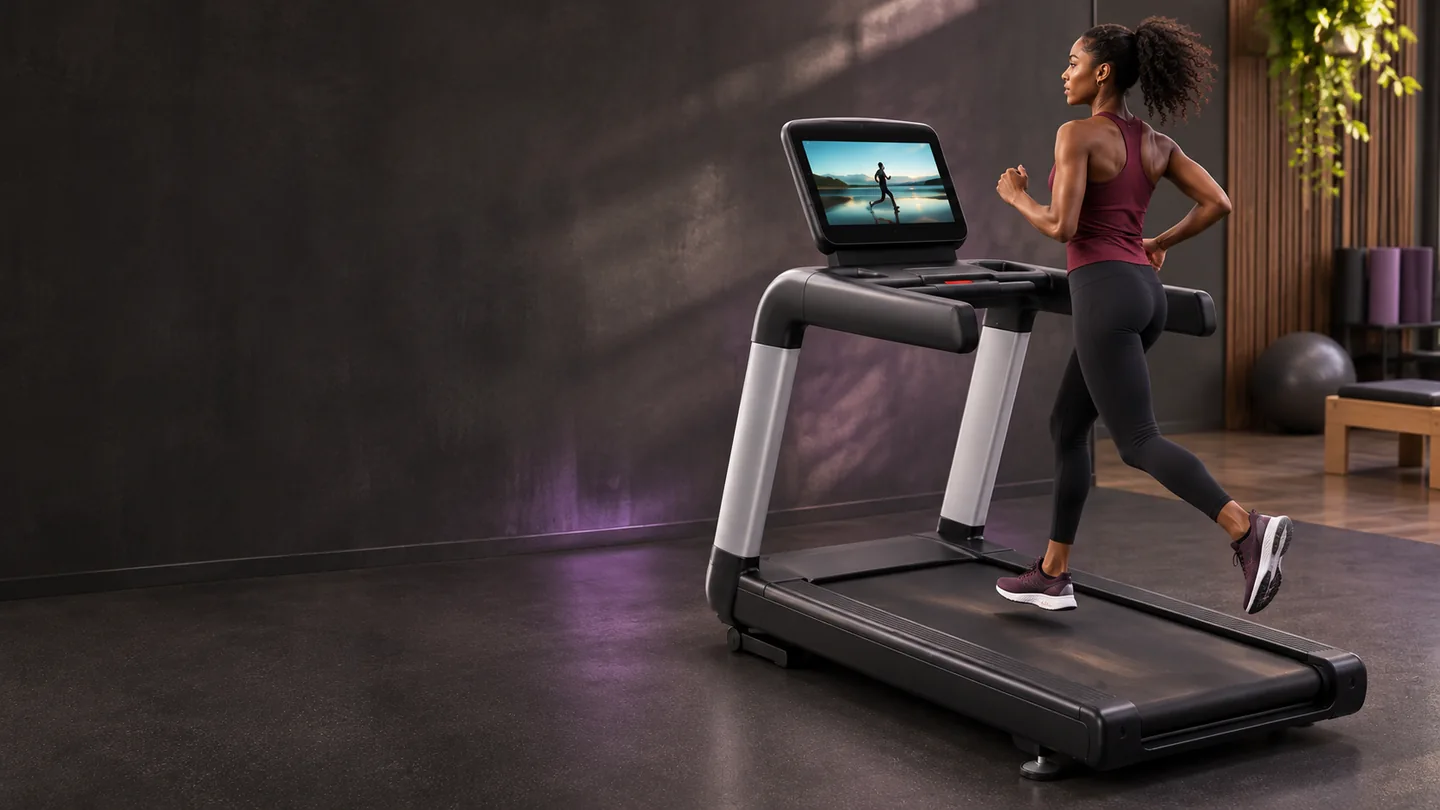
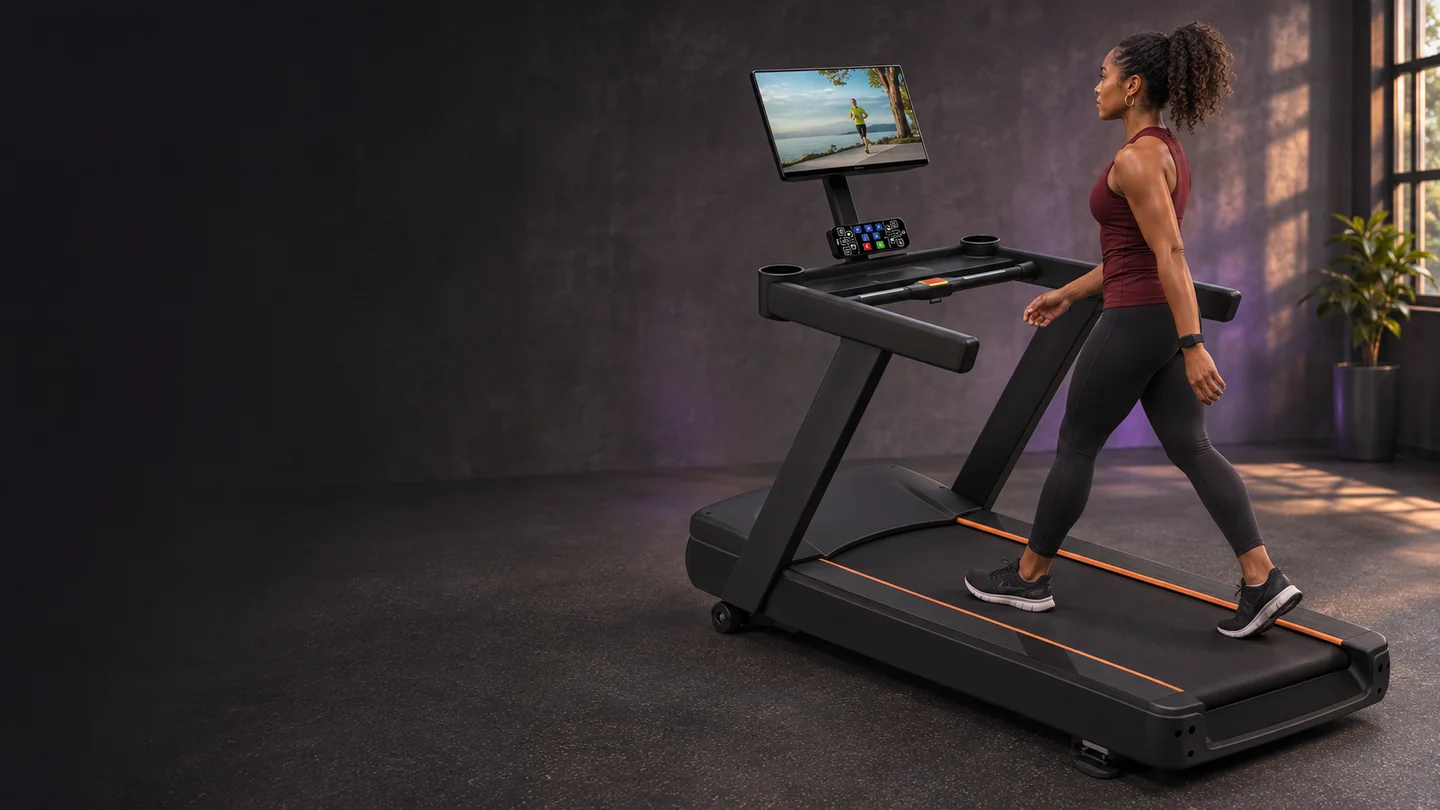
Corrige as capas A5, K8, Cardio e Pilates e a foto do modelo T13

diff --git a/js/site.js b/js/site.js
@@ -22,13 +22,17 @@
   const NOMES_PT = window.TORQUE_NOMES_PT || {};
   // Fotos locais em WebP (87% mais leve que o PNG); se o navegador ou o
   // arquivo falhar, o fallback abaixo devolve o PNG original.
-  const fotoWebp = src => /^assets\/products\/.+\.png$/i.test(src || '') ? src.replace(/\.png$/i, '.webp') : (src || '');
+  function fotoWebp(src) {
+    const foto = /^assets\/products\/.+\.png$/i.test(src || '') ? src.replace(/\.png$/i, '.webp') : (src || '');
+    // A foto original da T13 foi corrigida no mesmo endereço usado pelo catálogo publicado.
+    return foto === 'assets/products/d501fd345b7e.webp' ? foto + '?v=20261122d' : foto;
+  }
   document.addEventListener('error', e => {
     const img = e.target;
     if (img && img.tagName === 'IMG' && !img.dataset.pngFb && /assets\/products\/.+\.webp/i.test(img.src)) {
       img.dataset.pngFb = '1';
       e.stopPropagation();                                   // segura o onerror inline: ainda temos o PNG
-      img.src = img.src.replace(/\.webp(\?.*)?$/i, '.png');
+      img.src = img.src.replace(/\.webp(\?.*)?$/i, '.png$1');
     }
   }, true);
   function aplicaNomesPt(list) {
@@ -227,13 +231,13 @@
   }
   function countSerie(s) { return PRODUCTS.filter(p => (p.serie || 'Geral') === s).length; }
 
-  const seriesImageVersion = '20261122c';
+  const seriesImageVersion = '20261122d';
   const seriesTrainingDescriptions = new Map([
     ['a5-series', 'Atleta fazendo desenvolvimento de ombros no A503'],
     ['a7-series', 'Atleta fazendo remada baixa no A704'],
     ['a8-series', 'Atleta fazendo uma puxada no A802'],
     ['a9-series', 'Atleta fazendo agachamento pendular no A946'],
-    ['cardio', 'Atleta correndo na esteira T13'],
+    ['cardio', 'Atleta caminhando na esteira T13'],
     ['hm-series', 'Atleta fazendo crucifixo sentado no HM04'],
     ['hy-series', 'Atleta realizando uma série no leg press HY56'],
     ['k1-series', 'Atleta fazendo extensão de joelhos no K101'],
@@ -243,7 +247,7 @@
     ['k8-series', 'Atleta fazendo desenvolvimento de ombros no K806'],
     ['l-series', 'Atleta fazendo crucifixo em pé nas polias do L1017'],
     ['p-series', 'Atleta treinando no leg press P856'],
-    ['pilates', 'Atleta deitada, pressionando a plataforma com os pés no reformer SYT-PL30'],
+    ['pilates', 'Atleta praticando Pilates no reformer SYT-QB1010'],
     ['sq-f-series', 'Atleta fazendo agachamento na barra guiada do SQ7010']
   ]);
 

diff --git a/sw.js b/sw.js
@@ -6,13 +6,13 @@
    Chamadas externas (Supabase, CDN, fontes) passam direto pela rede.
    Suba o número da versão ao mudar a estratégia.
    ============================================================ */
-const CACHE = 'torque-app-v8-series-training';
+const CACHE = 'torque-app-v9-series-training';
 const SHELL = [
   './index.html',
   './css/site.css?v=20260718d',
   './css/premium.css?v=20261122b',
   './js/premium.js?v=20260905',
-  './js/site.js?v=20261122c',
+  './js/site.js?v=20261122d',
   './js/config.js?v=20260718d',
   './js/products.js?v=20260718d',
   './js/nomes.js?v=20260718d',

diff --git a/index.html b/index.html
@@ -489,7 +489,7 @@
   <script src="js/products.js?v=20260718d"></script>
   <script src="js/nomes.js?v=20260718d"></script>
   <script src="js/descricoes.js?v=20260718d"></script>
-  <script src="js/site.js?v=20261122c"></script>
+  <script src="js/site.js?v=20261122d"></script>
   <script src="js/premium.js?v=20260905" defer></script>
   <noscript><p class="tf-noscript">Ative o JavaScript para buscar equipamentos e montar seu orçamento. As informações da marca continuam disponíveis na página <a href="sobre.html">Sobre a Torque Fitness</a>.</p></noscript>
 </body>
